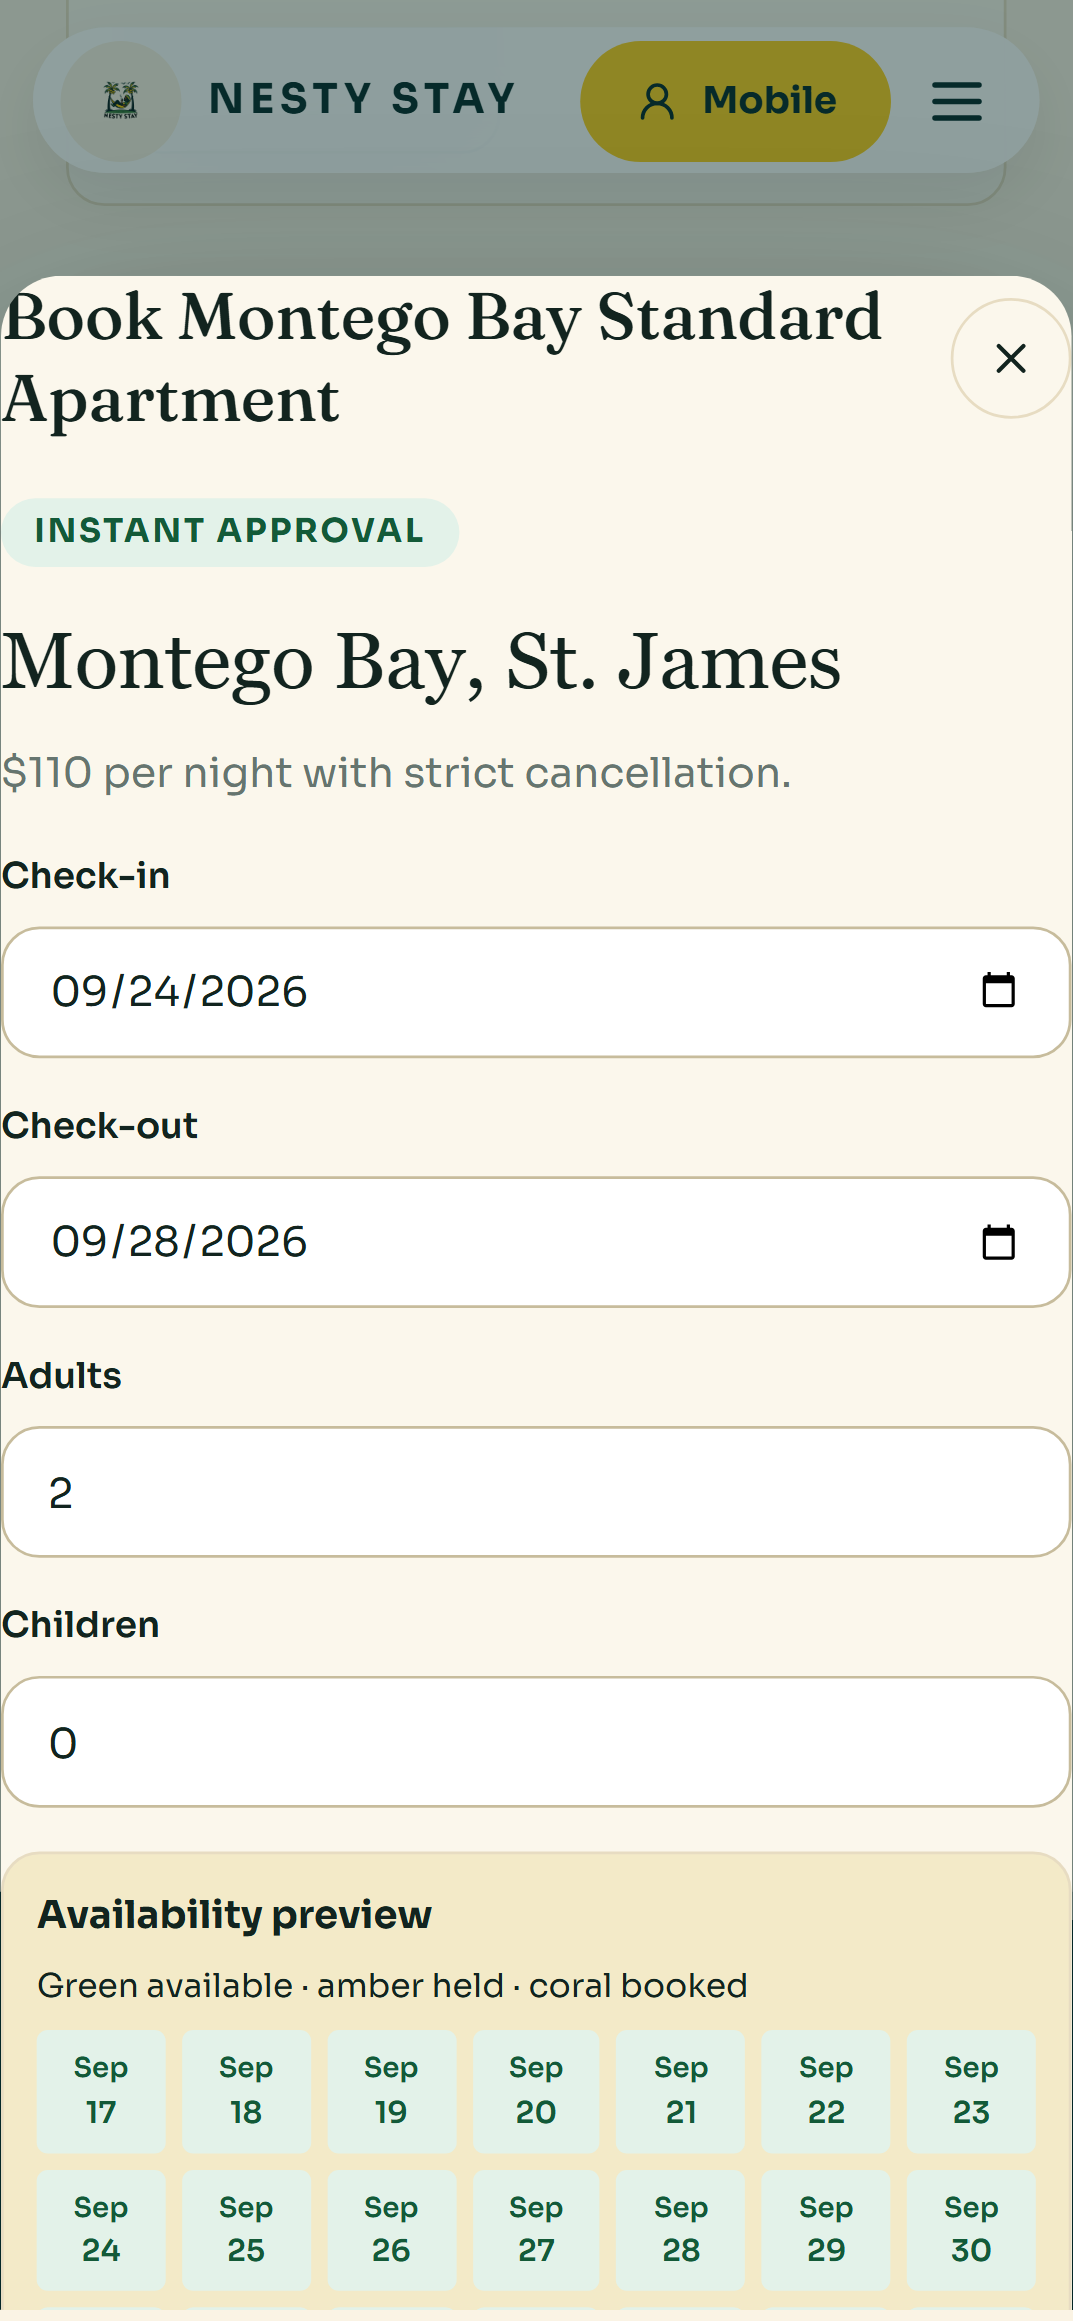
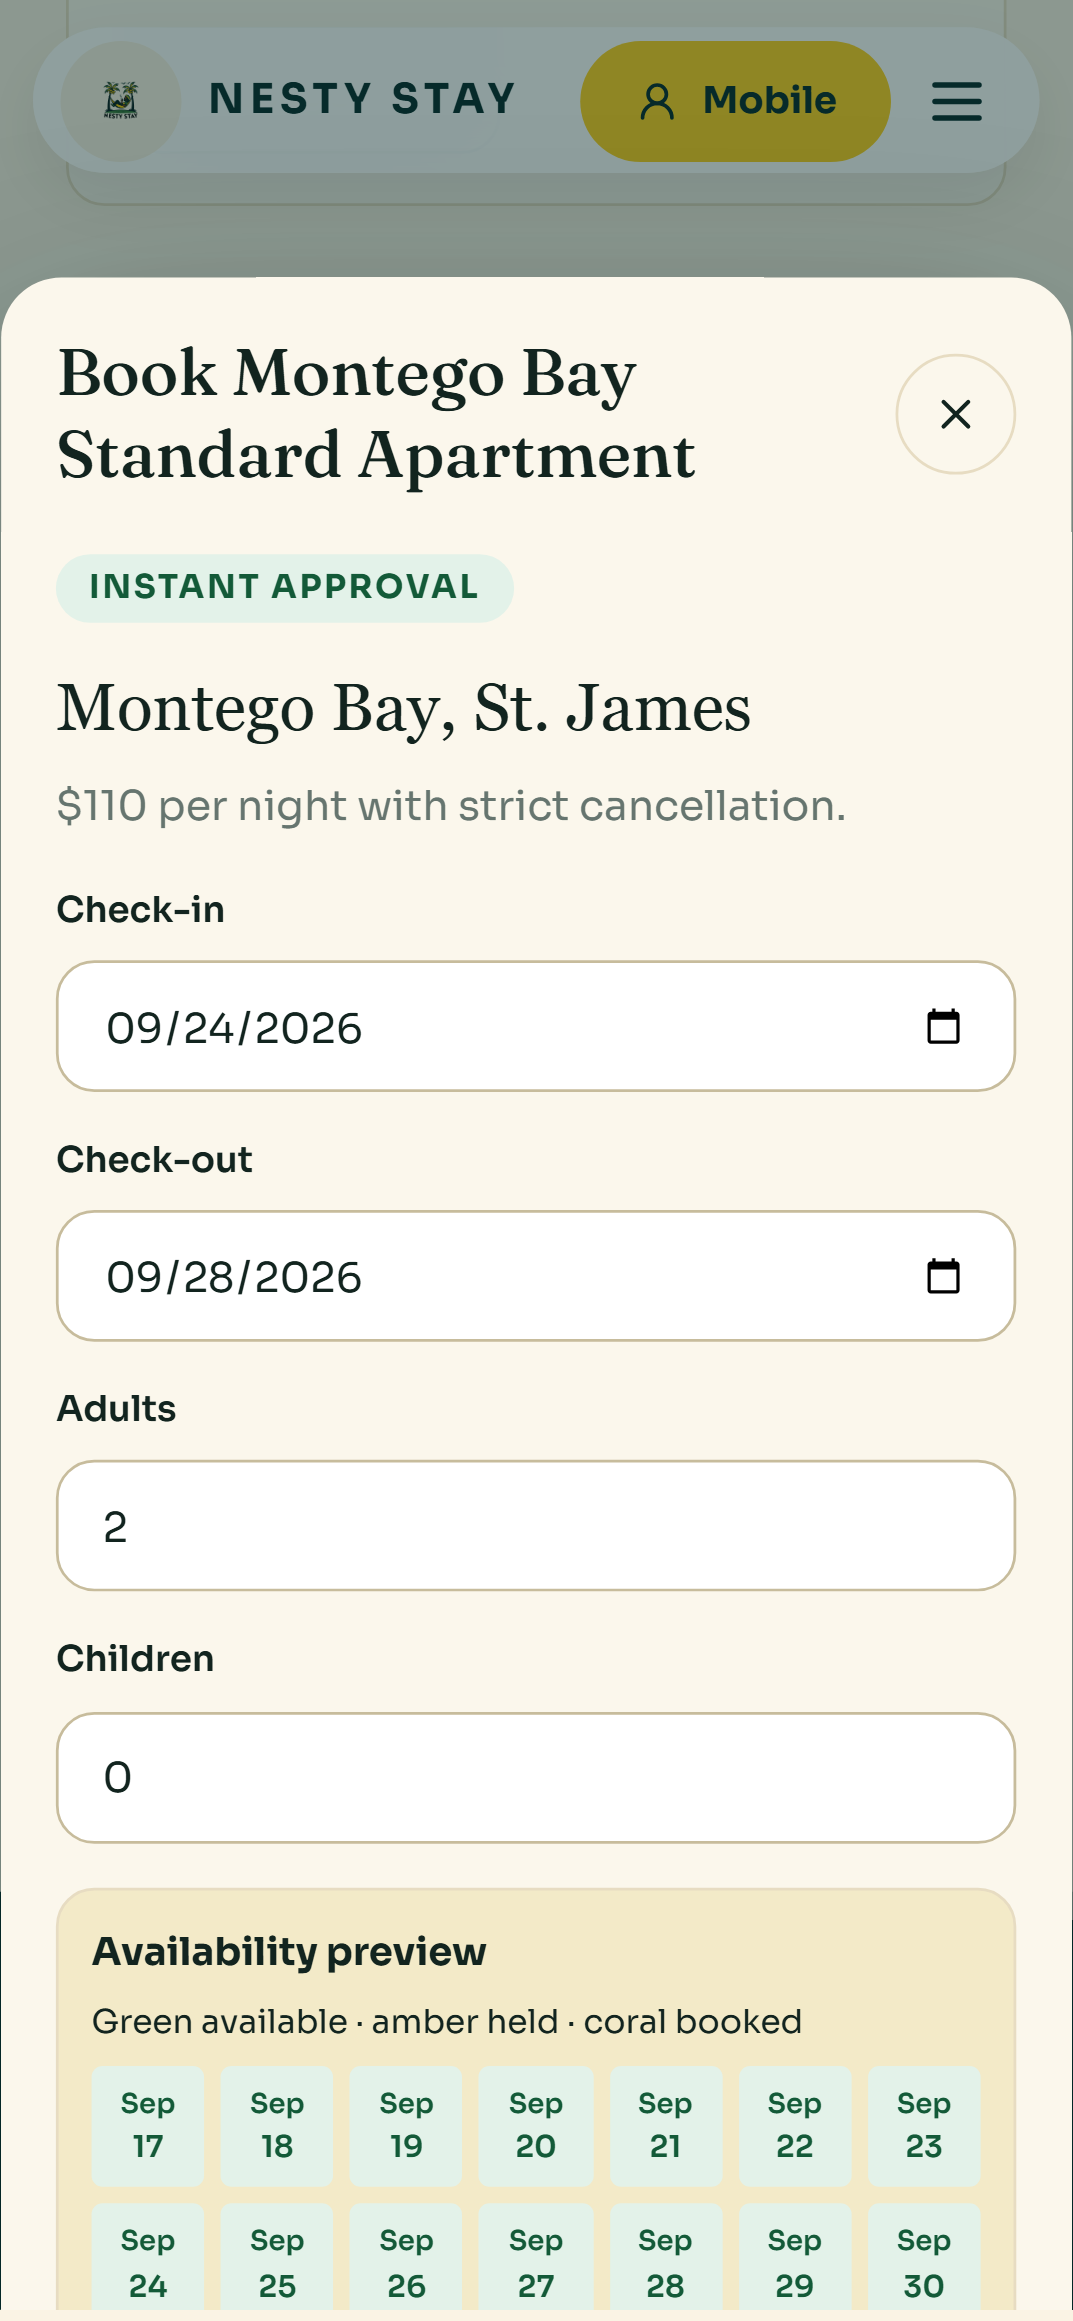
fix: polish responsive modal surfaces

diff --git a/frontend/src/components/ui/Modal.tsx b/frontend/src/components/ui/Modal.tsx
@@ -77,7 +77,7 @@ export function Modal({
 
   const overlayClass = variant === "sheet" ? "items-end p-0 sm:items-center sm:p-6" : "items-center overflow-y-auto p-6";
   const surfaceClass = variant === "sheet"
-    ? "max-h-[min(88dvh,760px)] w-full rounded-t-[22px] rounded-b-none pb-[calc(1.75rem+env(safe-area-inset-bottom))] sm:max-h-[calc(100dvh-48px)] sm:w-[min(720px,100%)] sm:rounded-[22px] sm:pb-7"
+    ? "max-h-[min(88dvh,760px)] w-full rounded-t-[22px] rounded-b-none p-5 pb-[calc(1.75rem+env(safe-area-inset-bottom))] sm:max-h-[calc(100dvh-48px)] sm:w-[min(720px,100%)] sm:rounded-[22px] sm:p-7"
     : variant === "fullscreen"
       ? "min-h-[100dvh] w-full rounded-none p-5 sm:min-h-0 sm:w-[min(960px,100%)] sm:rounded-[22px] sm:p-7"
       : "max-h-[calc(100dvh-48px)] w-[min(720px,100%)] rounded-[22px] p-7";

diff --git a/frontend/src/index.css b/frontend/src/index.css
@@ -114,8 +114,8 @@ body {
    turn the entire heading into a heavy outlined box. Interactive descendants
    keep their normal focus treatment. */
 [data-route-heading]:focus,
-main > h1:focus,
-main > h2:focus,
+main h1:focus,
+main h2:focus,
 .workspace-main h1:focus,
 .workspace-main h2:focus {
   outline: none;
@@ -2366,7 +2366,7 @@ img, svg {
 .booking-flow__summary h3 {
   margin: 12px 0 6px;
   font-family: Georgia, "Times New Roman", serif;
-  font-size: 29px;
+  font-size: clamp(24px, 4vw, 29px);
   font-weight: 500;
 }
 .booking-flow__summary p {
